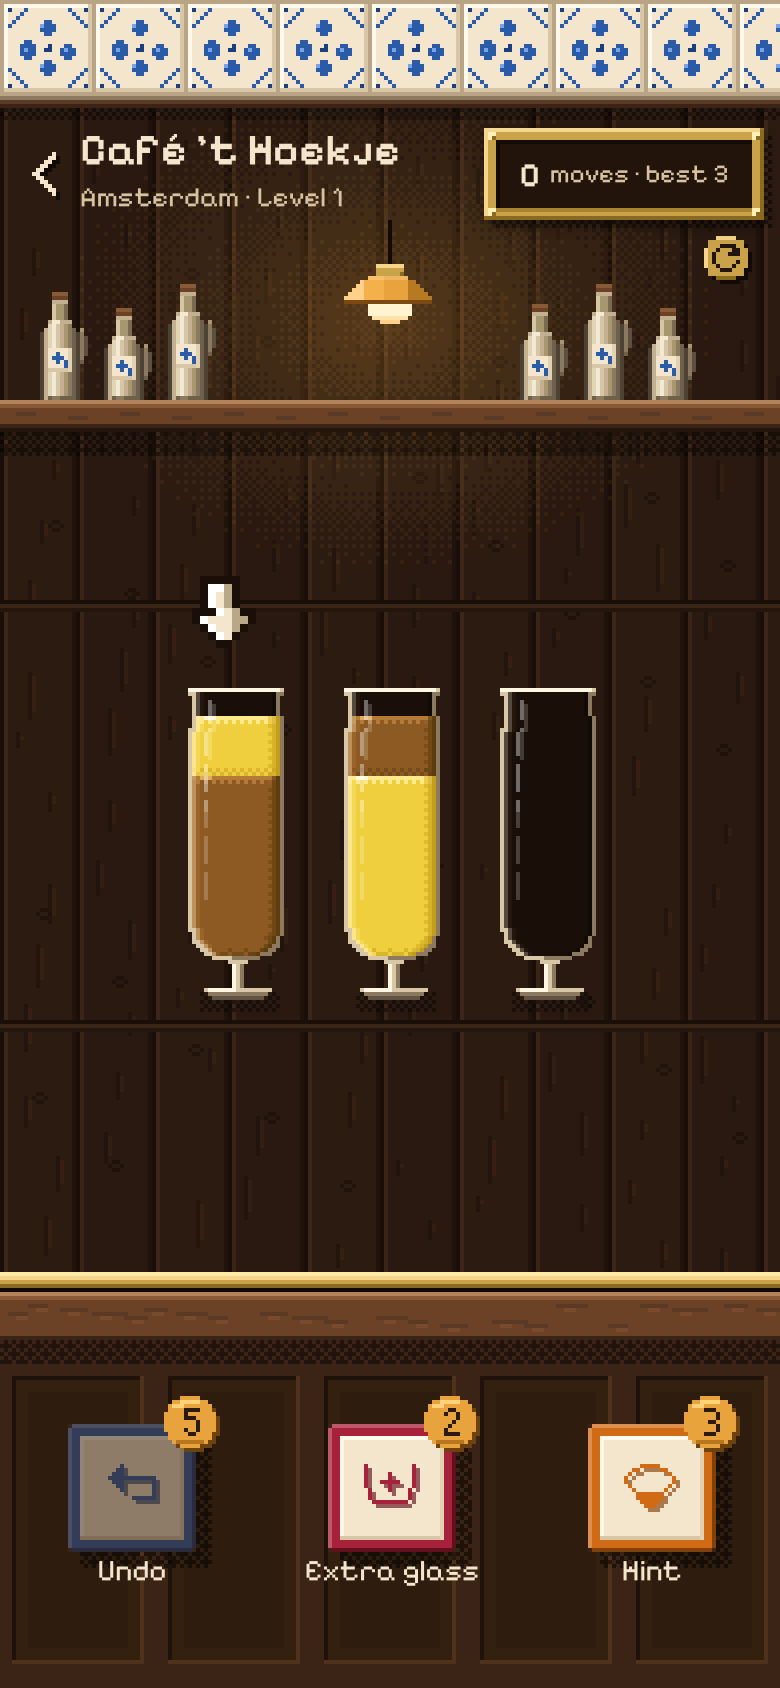
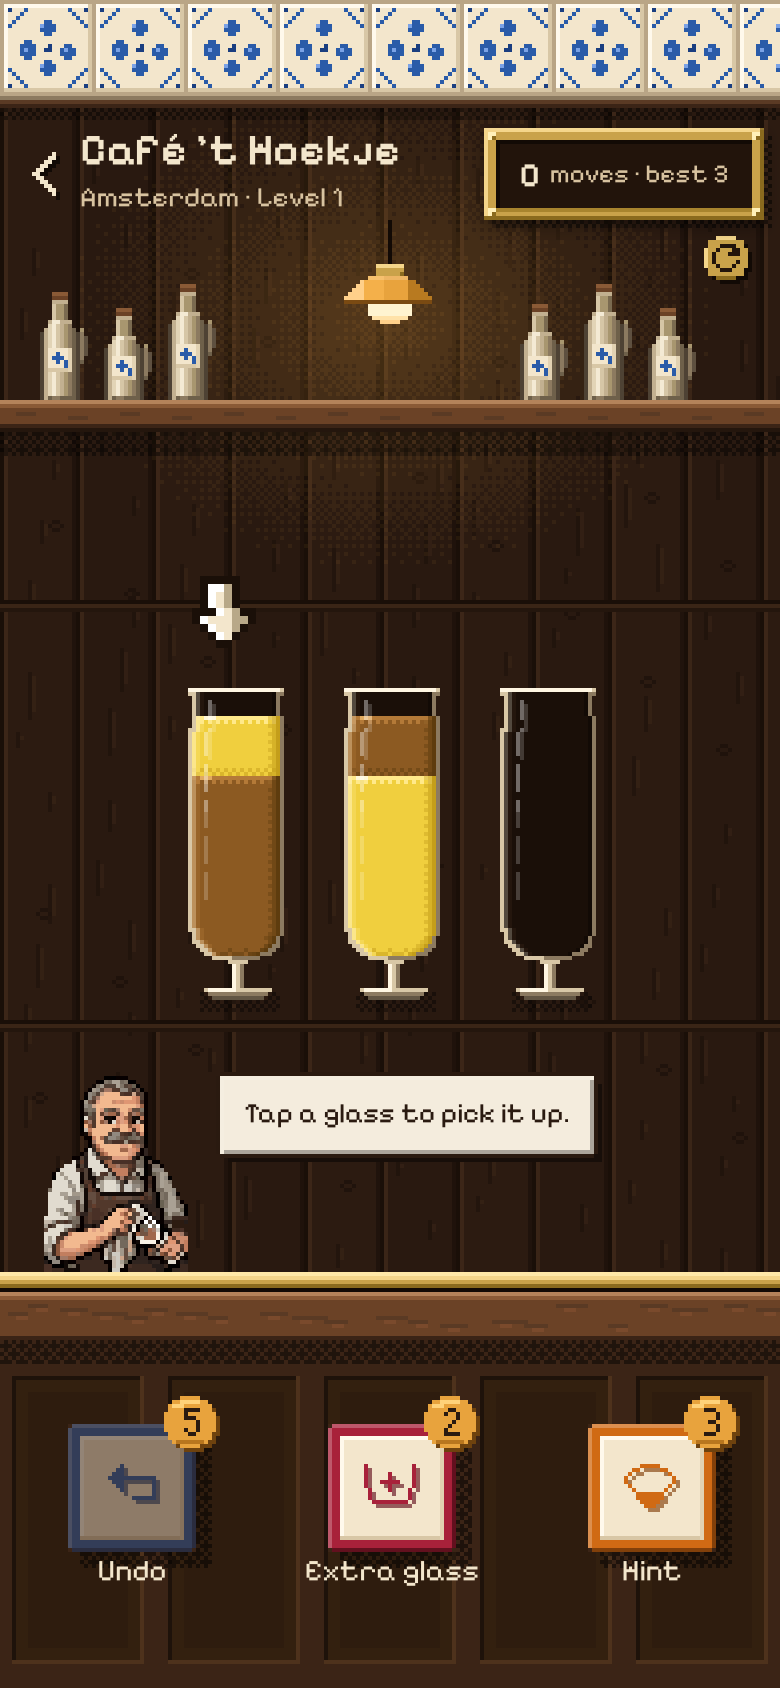
Passport card scenes, level-1 bartender guide and store screenshots
Generated vignettes on the passport cards, the bartender's neutral pose with
the level-1 hints, and a STORE=1 spec that takes the eight Play Store
screenshots.

Changed region(s): [[0.2769, 0.6161, 0.7692, 0.7085], [0.0308, 0.6161, 0.2462, 0.7701]]

diff --git a/apps/web/e2e/store-screenshots.spec.ts b/apps/web/e2e/store-screenshots.spec.ts
@@ -1,0 +1,97 @@
+import { expect, test, type Page } from '@playwright/test';
+import fs from 'node:fs';
+import path from 'node:path';
+import { fileURLToPath } from 'node:url';
+import { open } from './helpers';
+
+/**
+ * Play Store phone screenshots, 1080×1920 (9:16), to docs/design/store/screenshots/.
+ * Only runs on demand: STORE=1 npx playwright test e2e/store-screenshots.spec.ts (in apps/web).
+ */
+
+const out = path.resolve(path.dirname(fileURLToPath(import.meta.url)), '../../../docs/design/store/screenshots');
+
+test.describe('store screenshots', () => {
+  test.skip(!process.env.STORE, 'Set STORE=1 to take the Play Store screenshots');
+  test.use({ viewport: { width: 360, height: 640 }, deviceScaleFactor: 3 });
+
+  const shot = async (page: Page, name: string) => {
+    fs.mkdirSync(out, { recursive: true });
+    await page.waitForTimeout(400);
+    await page.screenshot({ path: path.join(out, `${name}.png`) });
+  };
+
+  async function seed(page: Page, current: number, stars = 3): Promise<void> {
+    const levels: Record<string, { stars: number; bestMoves: number }> = {};
+    for (let n = 1; n < current; n++) levels[n] = { stars, bestMoves: 20 };
+    await page.addInitScript((save) => localStorage.setItem('pour-decisions:save', JSON.stringify(save)), {
+      version: 2,
+      levels,
+      stock: { undo: 5, extraGlass: 2, hint: 3 },
+      streak: 4,
+      current,
+      settings: { muted: true },
+      daily: {},
+      training: { rating: 2, sessions: [] },
+    });
+  }
+
+  async function win(page: Page, city: string, bar: number, index: number): Promise<void> {
+    const pack = JSON.parse(fs.readFileSync(`../../levels/${city}/${bar}.json`, 'utf8'));
+    const lv = pack.levels[index];
+    await seed(page, lv.number);
+    await open(page, `#/level/${lv.number}`);
+    for (const [from, to] of lv.solution) {
+      await page.locator(`.lv-glass[data-index="${from}"]`).click();
+      await page.locator(`.lv-glass[data-index="${to}"]`).click();
+    }
+    await expect(page.getByRole('dialog')).toBeVisible();
+  }
+
+  test('1 first level with the bartender', async ({ page }) => {
+    await open(page, '#/level/1');
+    await shot(page, '1-first-level');
+  });
+
+  test('2 london level', async ({ page }) => {
+    await open(page, '#/fixture/london-151');
+    await shot(page, '2-london-level');
+  });
+
+  test('3 new york win', async ({ page }) => {
+    await win(page, 'newyork', 1, 0);
+    await shot(page, '3-new-york-win');
+  });
+
+  test('4 recipe card', async ({ page }) => {
+    await win(page, 'tokyo', 3, 19);
+    await page.getByRole('link', { name: 'Collect rewards' }).click();
+    await page.locator('.complete-screen[data-ready="true"]').waitFor();
+    await shot(page, '4-recipe-card');
+  });
+
+  test('5 amsterdam map', async ({ page }) => {
+    await seed(page, 100);
+    await open(page, '#/map/amsterdam');
+    await page.locator('.map-scroll').evaluate((e) => (e.scrollTop = 0));
+    await shot(page, '5-amsterdam-map');
+  });
+
+  test('6 tokyo level', async ({ page }) => {
+    await open(page, '#/fixture/tokyo-327');
+    await shot(page, '6-tokyo-level');
+  });
+
+  test('7 tokyo map', async ({ page }) => {
+    await seed(page, 400);
+    await open(page, '#/map/tokyo');
+    await page.locator('.map-scroll').evaluate((e) => (e.scrollTop = 0));
+    await shot(page, '7-tokyo-map');
+  });
+
+  test('8 passport', async ({ page }) => {
+    await seed(page, 330);
+    await open(page, '#/passport');
+    await shot(page, '8-passport');
+  });
+});

diff --git a/apps/web/src/passport/screen.ts b/apps/web/src/passport/screen.ts
@@ -1,4 +1,4 @@
-import { themes, type Theme } from '@pour/themes';
+import { themes, type CityId, type Theme } from '@pour/themes';
 import type { Progress } from '../economy/save.js';
 import { esc, icons } from '../icons.js';
 import type { Stage } from '../stage.js';
@@ -7,6 +7,8 @@ import { applyTheme } from '../theme-css.js';
 import { openSettings } from './settings.js';
 import { cityScene, dataUrl } from '../pixel/scenes.js';
 import { stampFor } from '../pixel/stamps.js';
+import { cardScenes } from '../pixel/card-scenes.js';
+import type { PixelCanvas } from '../pixel/canvas.js';
 
 export interface PassportOptions {
   progress: Progress;
@@ -26,6 +28,8 @@ type CityStatus = 'current' | 'done' | 'locked';
 /** Home: city cards (current highlighted, finished stamped, later ones locked), tonight's pour, tab bar. */
 export class PassportScreen {
   readonly el = document.createElement('div');
+
+  private scenes: Partial<Record<CityId, PixelCanvas>> = {};
 
   constructor(
     private readonly stage: Stage,
@@ -47,6 +51,7 @@ export class PassportScreen {
   }
 
   async mount(): Promise<void> {
+    this.scenes = await cardScenes();
     const theme = this.currentTheme();
     applyTheme(this.stage.el, theme);
     this.stage.el.replaceChildren(this.el);
@@ -107,7 +112,7 @@ export class PassportScreen {
       const bar = Math.ceil(at / 20);
       const k = t.colors;
       return `
-        <section class="pp-current px-scene" style="--scene:url(${dataUrl(cityScene(t, 175, 78))});--px-edge:${k.accent};background-color:${pp.card};color:${k.text}" aria-label="Now visiting ${esc(t.name)}">
+        <section class="pp-current px-scene" style="--scene:url(${dataUrl(cityScene(t, 175, 78, false, this.scenes[t.id]))});--px-edge:${k.accent};background-color:${pp.card};color:${k.text}" aria-label="Now visiting ${esc(t.name)}">
           <div>
             <div class="pp-kicker" style="color:${k.accent}">Now visiting</div>
             <h2 class="pp-city" style="${display}">${esc(t.name)}</h2>
@@ -135,7 +140,7 @@ export class PassportScreen {
     const tag = status === 'done' ? 'a' : 'div';
     const href = status === 'done' ? ` href="#/map/${t.id}"` : '';
     return `
-      <${tag}${href} class="pp-city-card px-scene is-${status}" style="--scene:url(${dataUrl(cityScene(t, 175, 44, status === 'locked'))});--px-edge:${pp.cardBorder};background-color:${pp.card};color:${pp.title}">
+      <${tag}${href} class="pp-city-card px-scene is-${status}" style="--scene:url(${dataUrl(cityScene(t, 175, 44, status === 'locked', this.scenes[t.id]))});--px-edge:${pp.cardBorder};background-color:${pp.card};color:${pp.title}">
         <div>
           <h2 class="pp-city-name" style="${display}">${esc(t.name)}</h2>
           <div class="pp-city-sub" style="color:${pp.sub}">${sub}</div>

diff --git a/apps/web/src/level/screen.ts b/apps/web/src/level/screen.ts
@@ -618,6 +618,20 @@ export class LevelScreen {
   private renderGuide(): void {
     const pointer = this.el.querySelector<HTMLElement>('.lv-guide');
     if (!pointer) return;
+    // The bartender talks the first pours through, then leaves the player to it.
+    const host = this.el.querySelector<HTMLElement>('.lv-host');
+    if (host) {
+      const say =
+        !this.opts.guide || this.game.status !== 'playing' || this.game.moves > 2
+          ? ''
+          : this.game.moves > 0
+            ? 'Keep going: one drink per glass.'
+            : this.game.selected === null
+              ? 'Tap a glass to pick it up.'
+              : 'Now tap the glass to pour into.';
+      host.hidden = !say;
+      host.querySelector('.lv-host-say')!.textContent = say;
+    }
     if (!this.opts.guide || this.game.moves > 0 || this.game.status !== 'playing') {
       pointer.hidden = true;
       return;
@@ -695,6 +709,7 @@ export class LevelScreen {
       </div>
       <button class="lv-restart" aria-label="Restart level" style="left:${a(restart.x + 6) - 22}px;top:${a(restart.y + 6) - 22}px"></button>
       <div class="lv-glasses"></div>
+      <div class="lv-host" hidden>${bartenderImg(this.theme.id, 'neutral', 'lv-host-img')}<p class="lv-host-say px-panel" aria-live="polite"></p></div>
       <div class="lv-guide" hidden aria-hidden="true">${pixelSvg(GUIDE_ARROW, { o: '#1A0F08', '#': '#F3E6CC', h: '#FFFFFF', d: '#B8A888' }, 4)}</div>
       <div class="lv-counter" style="color:${text.title}">
         ${booster('undo', 'Undo', 0)}

diff --git a/apps/web/src/pixel/card-scenes.ts b/apps/web/src/pixel/card-scenes.ts
@@ -1,0 +1,21 @@
+import type { CityId } from '@pour/themes';
+import type { PixelCanvas } from './canvas.js';
+import { loadSprite } from './sprite.js';
+
+/**
+ * Drawn night vignettes for the passport cards: `card-scenes/<city>.png`,
+ * 64×80 art pixels, shown on the right of each city's card. Generated with
+ * Retro Diffusion (prompts in docs/design/asset-prompts.md).
+ */
+const art = import.meta.glob<string>('./card-scenes/*.png', { eager: true, query: '?url', import: 'default' });
+let loaded: Promise<Partial<Record<CityId, PixelCanvas>>> | null = null;
+
+/** Every city's card scene, loaded once. */
+export function cardScenes(): Promise<Partial<Record<CityId, PixelCanvas>>> {
+  loaded ??= Promise.all(
+    Object.entries(art).map(
+      async ([file, url]) => [file.replace(/^.*\/(.*)\.png$/, '$1'), await loadSprite(url)] as const,
+    ),
+  ).then((entries) => Object.fromEntries(entries));
+  return loaded;
+}

diff --git a/apps/web/src/pixel/scenes.ts b/apps/web/src/pixel/scenes.ts
@@ -172,9 +172,11 @@ const SCENES: Record<string, (cv: PixelCanvas) => void> = {
  * A passport card scene, w×h art px. The text column on the left is a plain
  * plate in the card's colour; a locked city is drawn dim and cold.
  */
-export function cityScene(theme: Theme, w: number, h: number, locked = false): PixelCanvas {
+export function cityScene(theme: Theme, w: number, h: number, locked = false, art?: PixelCanvas): PixelCanvas {
   const cv = new PixelCanvas(w, h);
   (SCENES[theme.id] ?? amsterdamScene)(cv);
+  // A drawn vignette replaces the code-drawn scene on the right of the card.
+  if (art) cv.blit(art, w - art.w, Math.round((h - art.h) * 0.6));
   // A solid plate in the card's colour under the text, dithering into the art.
   const plate = theme.passport?.card ?? theme.colors.surface;
   const edge = Math.round(w * 0.64);

diff --git a/apps/web/src/pixel/bartenders.ts b/apps/web/src/pixel/bartenders.ts
@@ -3,12 +3,12 @@ import type { CityId } from '@pour/themes';
 /**
  * Each city's bartender: `bartenders/<city>-<pose>.png`, 48×64 art pixels,
  * transparent background. "cheer" stands on the win card, "think" leans over
- * the dead-end panel. Generated with Retro Diffusion (prompts in
+ * the dead-end panel, "neutral" hosts the first level's guide. Generated with Retro Diffusion (prompts in
  * docs/design/asset-prompts.md).
  */
 const art = import.meta.glob<string>('./bartenders/*.png', { eager: true, query: '?url', import: 'default' });
 
-export type Pose = 'cheer' | 'think';
+export type Pose = 'cheer' | 'think' | 'neutral';
 
 export function bartender(city: CityId, pose: Pose): string | undefined {
   return art[`./bartenders/${city}-${pose}.png`];

diff --git a/apps/web/src/style.css b/apps/web/src/style.css
@@ -2038,3 +2038,28 @@ input {
   right: 14px;
   top: -124px;
 }
+
+/* The first level's host: the city's bartender on the counter, with a speech bubble. */
+.lv-host {
+  position: absolute;
+  left: 10px;
+  top: 508px;
+  display: flex;
+  align-items: flex-start;
+  gap: 4px;
+  pointer-events: none;
+}
+.lv-host[hidden] {
+  display: none;
+}
+.lv-host-say {
+  margin: 30px 0 0;
+  max-width: 230px;
+  padding: 10px 12px;
+  font-size: 14px;
+  line-height: 1.35;
+  background: #f4ecdd;
+  color: #2a1a10;
+  --px-face: #f4ecdd;
+  --px-edge: #2a1a10;
+}

diff --git a/AGENTS.md b/AGENTS.md
@@ -56,13 +56,15 @@ npx playwright test e2e/bleed-screens.spec.ts    # (in apps/web) screens on phon
 node apps/web/scripts/icons.mjs   # every app icon size (web, iPhone, Android) from the 48×48 pixel source apps/web/public/icons/icon-48.png
 node apps/web/scripts/sprite-art.mjs recipes      # recipe-card drinks from the picks in docs/design/generated/recipes/choices.json
 node apps/web/scripts/sprite-art.mjs bartenders   # bartender poses from docs/design/generated/bartenders/choices.json
+node apps/web/scripts/sprite-art.mjs card-scenes  # passport card vignettes from docs/design/generated/card-scenes/choices.json
 node apps/web/scripts/stamp-art.mjs   # passport stamps from docs/design/generated/stamps/choices.json
+(cd apps/web && STORE=1 npx playwright test e2e/store-screenshots.spec.ts)   # Play Store screenshots → docs/design/store/screenshots/
 npm run levels -- --city tokyo --bar 2   # regenerate one bar (or --city amsterdam, or --all)
 ```
 
 Playwright needs a browser once: `npx playwright install chromium`.
 
-Generated art (Retro Diffusion) keeps its raw options in `docs/design/generated/`, and the prompts in `docs/design/asset-prompts.md`. The game uses processed copies: the icon (`apps/web/public/icons/icon-48.png`), recipe drinks, bartenders, passport stamps and map scenes (`apps/web/src/pixel/{recipes,bartenders,stamps,landmarks}/`; map scenes are copied as they come).
+Generated art (Retro Diffusion) keeps its raw options in `docs/design/generated/`, and the prompts in `docs/design/asset-prompts.md`. The game uses processed copies: the icon (`apps/web/public/icons/icon-48.png`), recipe drinks, bartenders, passport stamps, passport card scenes and map scenes (`apps/web/src/pixel/{recipes,bartenders,stamps,card-scenes,landmarks}/`; map scenes are copied as they come).
 
 Android app: `apps/web/android/` is a Capacitor project that wraps the web build (no browser UI, works offline, fullscreen, portrait, Back steps back through screens). The **Android app** workflow builds the APK on every pull request and push; pushes to main publish it as the `android` release (`releases/latest/download/pour-decisions.apk`). It is signed with the key in the `ANDROID_KEYSTORE_BASE64` / `ANDROID_KEYSTORE_PASSWORD` secrets, or as a debug build when they are missing. Locally (JDK 21 and the Android SDK needed):
 
